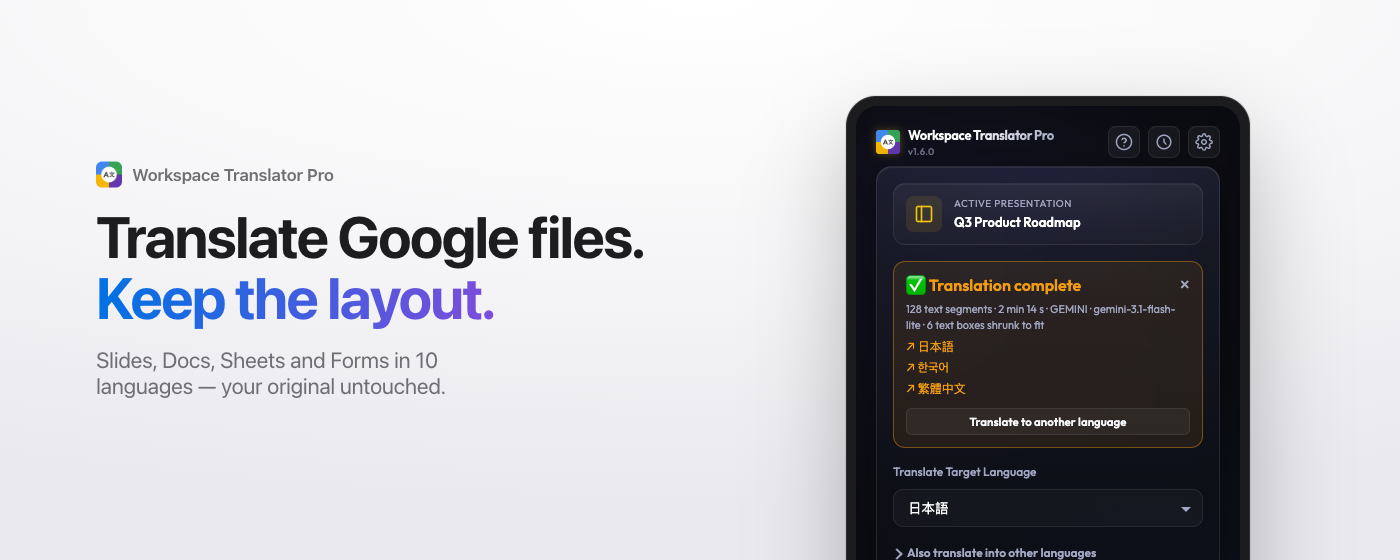
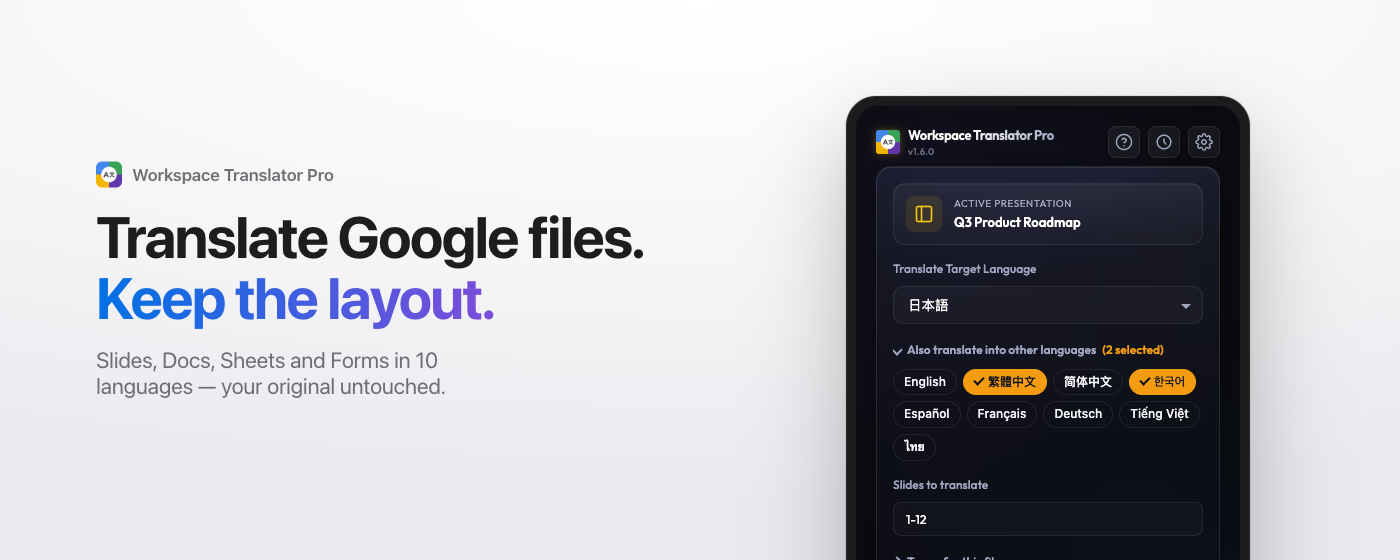
store: marquee shows multi-language selection

Changed region(s): [[0.645, 0.4554, 0.86, 0.9411], [0.645, 0.9714, 0.7986, 1.0]]

diff --git a/store-assets/compose.html b/store-assets/compose.html
@@ -129,7 +129,7 @@ const shots = {
   marquee: `<div class="marquee"><div class="copy">${brand}
         <h1>Translate Google files.<br><span class="grad">Keep the layout.</span></h1>
         <p class="sub">Slides, Docs, Sheets and Forms in 10 languages — your original untouched.</p></div>
-      ${device('done')}</div>`,
+      ${device('main')}</div>`,
   tile: `<div class="tile"><img src="../icons/icon128.png" alt=""><h1>Workspace Translator Pro</h1>
         <div class="types"><span><i style="background:#f4b400"></i>Slides</span><span><i style="background:#4285f4"></i>Docs</span><span><i style="background:#0f9d58"></i>Sheets</span><span><i style="background:#7248b9"></i>Forms</span></div>
         <p>AI translation into 10 languages · layout kept</p></div>`,
